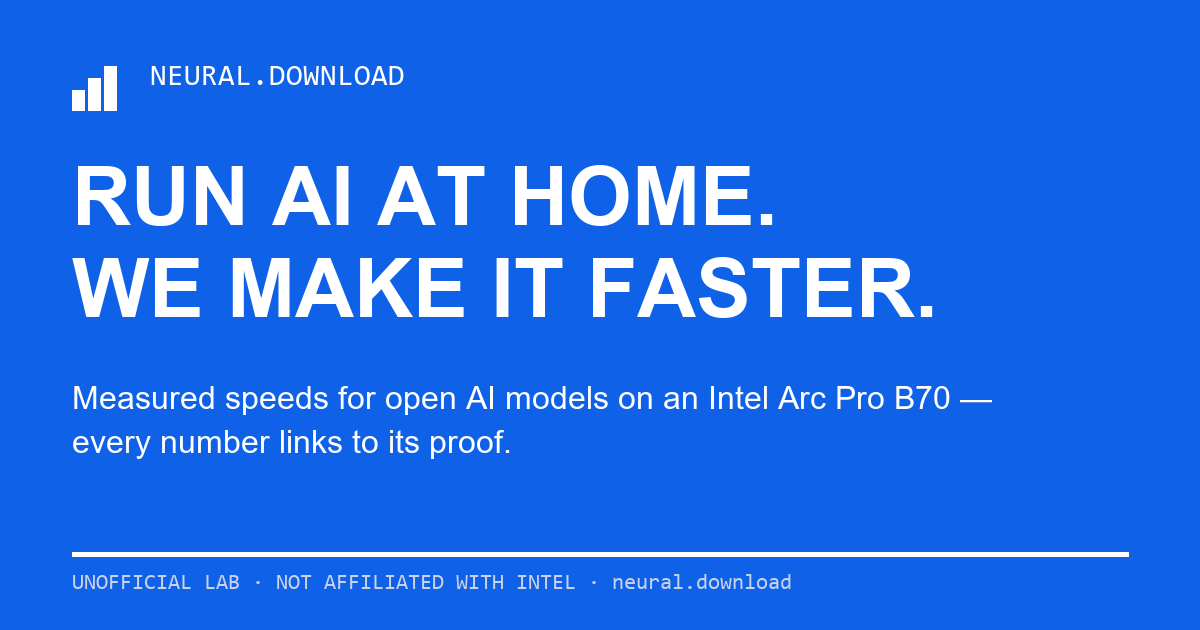
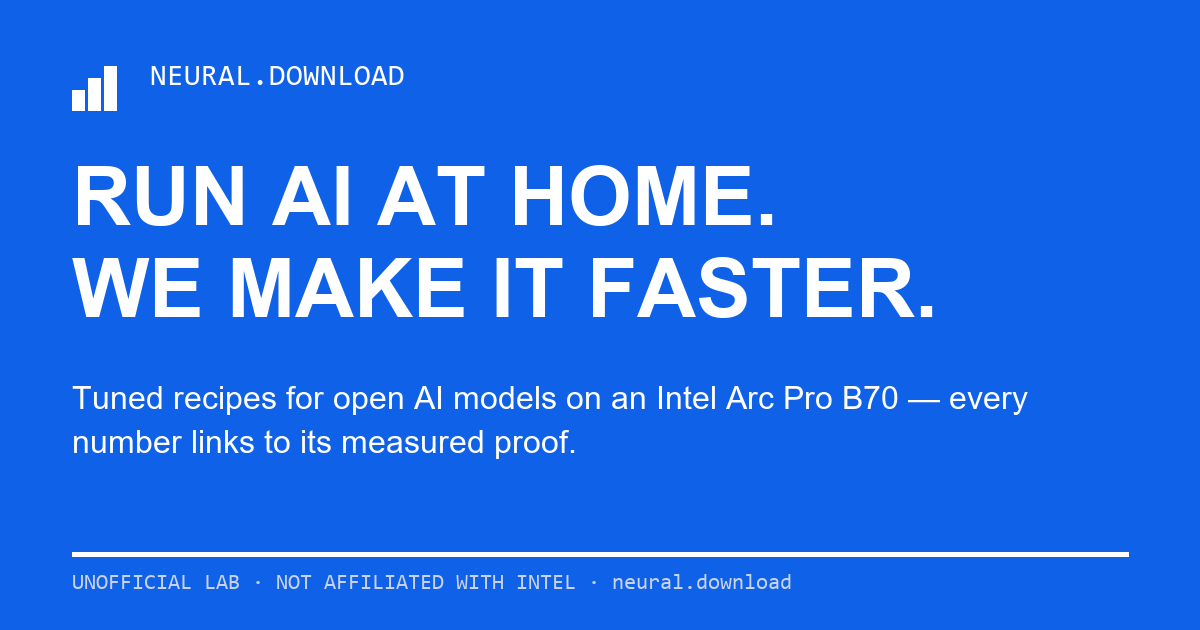
Match the share card's body line to the optimization-first headline
The card promised 'We make it faster' and then opened its body with 'Measured speeds', which read as the old positioning. It now leads with the tuned recipes and keeps the proof promise at the end.

Claude-Session: https://claude.ai/code/session_01BAfT1m5LxDsJKc4od3xGxq

Changed region(s): [[0.0617, 0.6032, 0.8633, 0.7238]]

diff --git a/tools/build-share-assets.py b/tools/build-share-assets.py
@@ -80,7 +80,7 @@ def site_card(path: Path) -> None:
     d.text((150, 62), "NEURAL.DOWNLOAD", font=mono(30), fill=WHITE)
     d.text((72, 150), "RUN AI AT HOME.", font=font(82), fill=WHITE)
     d.text((72, 242), "WE MAKE IT FASTER.", font=font(82), fill=WHITE)
-    body = "Measured speeds for open AI models on an Intel Arc Pro B70 — every number links to its proof."
+    body = "Tuned recipes for open AI models on an Intel Arc Pro B70 — every number links to its measured proof."
     y = 380
     for line in wrap(d, body, font(32, bold=False), 1000):
         d.text((72, y), line, font=font(32, bold=False), fill=WHITE)
